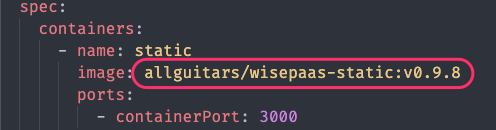
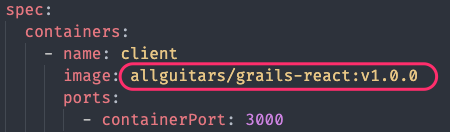
modified readme

diff --git a/README.md b/README.md
@@ -1,6 +1,6 @@
 # grails-react-k8s
 
-This is a sample code to demonstrate how to deploy a simple static page to the EnSaaS 4.0.
+This project is to demonstrate how to deploy an **React** application built with **Grails** to the **EnSaaS 4.0**.
 
 
 
@@ -27,29 +27,47 @@ You may overwrite the ``KUBECONFIG`` environment variable to direct Kubernetes t
 ## 3. Clone the Sample Code from WISE-PaaS GitHub
 
 ```bash
-git clone git@github.com:allguitars/static-page-k8s.git
-cd static-page-k8s/
+git clone git@github.com:WISE-PaaS/grails-react-k8s.git
+cd grails-react-k8s/
 ```
 
 <br>
 
 ## 4. Building & Pushing Docker Image
 
-- Specify a tag when building the image.
+In this project, we use **Grails** to create an **React** application. While building the image, we copy over the ``build`` folder to an Nginx container to serve the application.
 
-  ```bash
-  docker build -t <DockerHubAccount>/<ImageName>:<Tag> .
-  ```
+**Dockerfile:**
 
-  For example: ``wise-paas/static-k8s:v1.0.0``
+```dockerfile
+FROM tubbynl/grails as builder
+WORKDIR /app
+RUN grails create-app myreact -profile react
+WORKDIR /app/myreact
+RUN ./gradlew client:build
+# CMD ["./gradlew", "client:start"]
 
-  <br>
+FROM nginx
+EXPOSE 3000
+COPY ./nginx/default.conf /etc/nginx/conf.d/default.conf
+COPY --from=builder /app/myreact/client/build /usr/share/nginx/html
+```
 
-- Push the new image to your own Docker Repository.
+<br>
 
-  ```bash
-  docker push <DockerHubAccount>/<ImageName>:<Tag>
-  ```
+First, build the image while specifying a tag.
+
+```bash
+docker build -t <DockerHubAccount>/<ImageName>:<Tag> .
+```
+
+For example: ``wise-paas/grails-react:v1.0.0``
+
+Then, push the new image to your own Docker Repository.
+
+```bash
+docker push <DockerHubAccount>/<ImageName>:<Tag>
+```
 
 <br>
 
@@ -59,7 +77,7 @@ It requires some minimun effort to take this code and deploy it to the EnSaaS 4.
 
 ### I. Setting Up the Host
 
-Modify the ``host`` attribute in ``./k8s-config/ingress-service.yaml``.
+Modify the ``host`` attribute in ``./k8s/ingress-service.yaml``.
 
 ![ingress-host](./img/ingress-host.png)
 
@@ -69,13 +87,13 @@ Modify the ``host`` attribute in ``./k8s-config/ingress-service.yaml``.
 
 ``ApplicationName``.``Workspace``.``Cluster``.**internal**
 
-Note that ``internal`` keyword is required at the end of the string.
+In this example, the ``ApplicationName`` is ``grails``. Note that ``internal`` keyword is **required** at the end of the string.
 
 <br>
 
-### II. Change the Docker Image Name
+### II. Changing the Docker Image Name
 
-Change the ``image`` attribute inside ``./k8s-config/static-deployment.yaml`` file according to the image you just built.
+Change the ``image`` attribute inside ``./k8s/client-deployment.yaml`` file according to the image you just built and pushed.
 
 ```
 <DockerHubAccount>/<ImageName>:<Tag>
@@ -89,7 +107,7 @@ Here is the example in this code:
 
 ### III. Setting Up the Resource Usage
 
-Modify the ``resources`` attribute inside ``./k8s-config/static-deployment.yaml`` file.
+Adjust the ``resources`` attribute inside ``./k8s/client-deployment.yaml`` file.
 
 ![resources](./img/resources.png)
 
@@ -97,7 +115,7 @@ Modify the ``resources`` attribute inside ``./k8s-config/static-deployment.yaml`
 
 ## 5. Appying the Configuration
 
-**Note**: Always remember to specify the **namespace** that you are working on while applying the Kubernetes configuration.
+**Note**: Always remember to specify the ``namespace`` that you are working on while applying the Kubernetes configurations.
 
 The following screenshot shows that the namespace is *playgroud*. Yours might be different.
 
@@ -108,7 +126,7 @@ The following screenshot shows that the namespace is *playgroud*. Yours might be
 Apply the Kubernetes configuration.
 
 ```bash
-kubectl apply -f k8s-config/ --namespace <NameSpace>
+kubectl apply -f k8s/ --namespace <NameSpace>
 ```
 
 <br>
@@ -118,17 +136,17 @@ Check all resources (also with namespace):
 ```bash
 kubectl get all --namespace playground
 
-NAME                                     READY   STATUS    RESTARTS   AGE
-pod/static-deployment-5d996d5d54-97zql   1/1     Running   0          124m
+NAME                                   READY   STATUS    RESTARTS   AGE
+pod/client-deployment-9d9f994b-4q6zl   1/1     Running   0          40m
 
 NAME                                TYPE        CLUSTER-IP    EXTERNAL-IP   PORT(S)    AGE
-service/static-cluster-ip-service   ClusterIP   10.0.201.35   <none>        3000/TCP   124m
+service/client-cluster-ip-service   ClusterIP   10.0.91.167   <none>        3000/TCP   44m
 
 NAME                                READY   UP-TO-DATE   AVAILABLE   AGE
-deployment.apps/static-deployment   1/1     1            1           124m
+deployment.apps/client-deployment   1/1     1            1           40m
 
-NAME                                           DESIRED   CURRENT   READY   AGE
-replicaset.apps/static-deployment-5d996d5d54   1         1         1       124m
+NAME                                         DESIRED   CURRENT   READY   AGE
+replicaset.apps/client-deployment-9d9f994b   1         1         1       40m
 ```
 
 <br>
@@ -138,24 +156,24 @@ replicaset.apps/static-deployment-5d996d5d54   1         1         1       124m
 In the sample code, we set the host for the Ingress service.
 
 ```yaml
-host: static.se.slave04.internal
+host: grails.se.slave04.internal
 ```
 
 So, to see the page, we need to go to the following URL:
 
-http://static-se-slave04.es.wise-paas.cn/
+http://grails-se-slave04.es.wise-paas.cn/
 
 <br>
 
 Mapping rule -- host vs. URL
 
-- host
+- **host**
 
   ```
   <AppName>.<Workspace>.<Cluster>.internal
   ```
 
-- External URL
+- **External URL**
 
   ```
   <AppName>-<Workspace>-<Cluster>.es.wise-paas.cn
@@ -163,7 +181,7 @@ Mapping rule -- host vs. URL
 
   <br>
 
-The page should look like:
+The website should look like:
 
 ![ensaas-4.0](./img/result.png)
 
